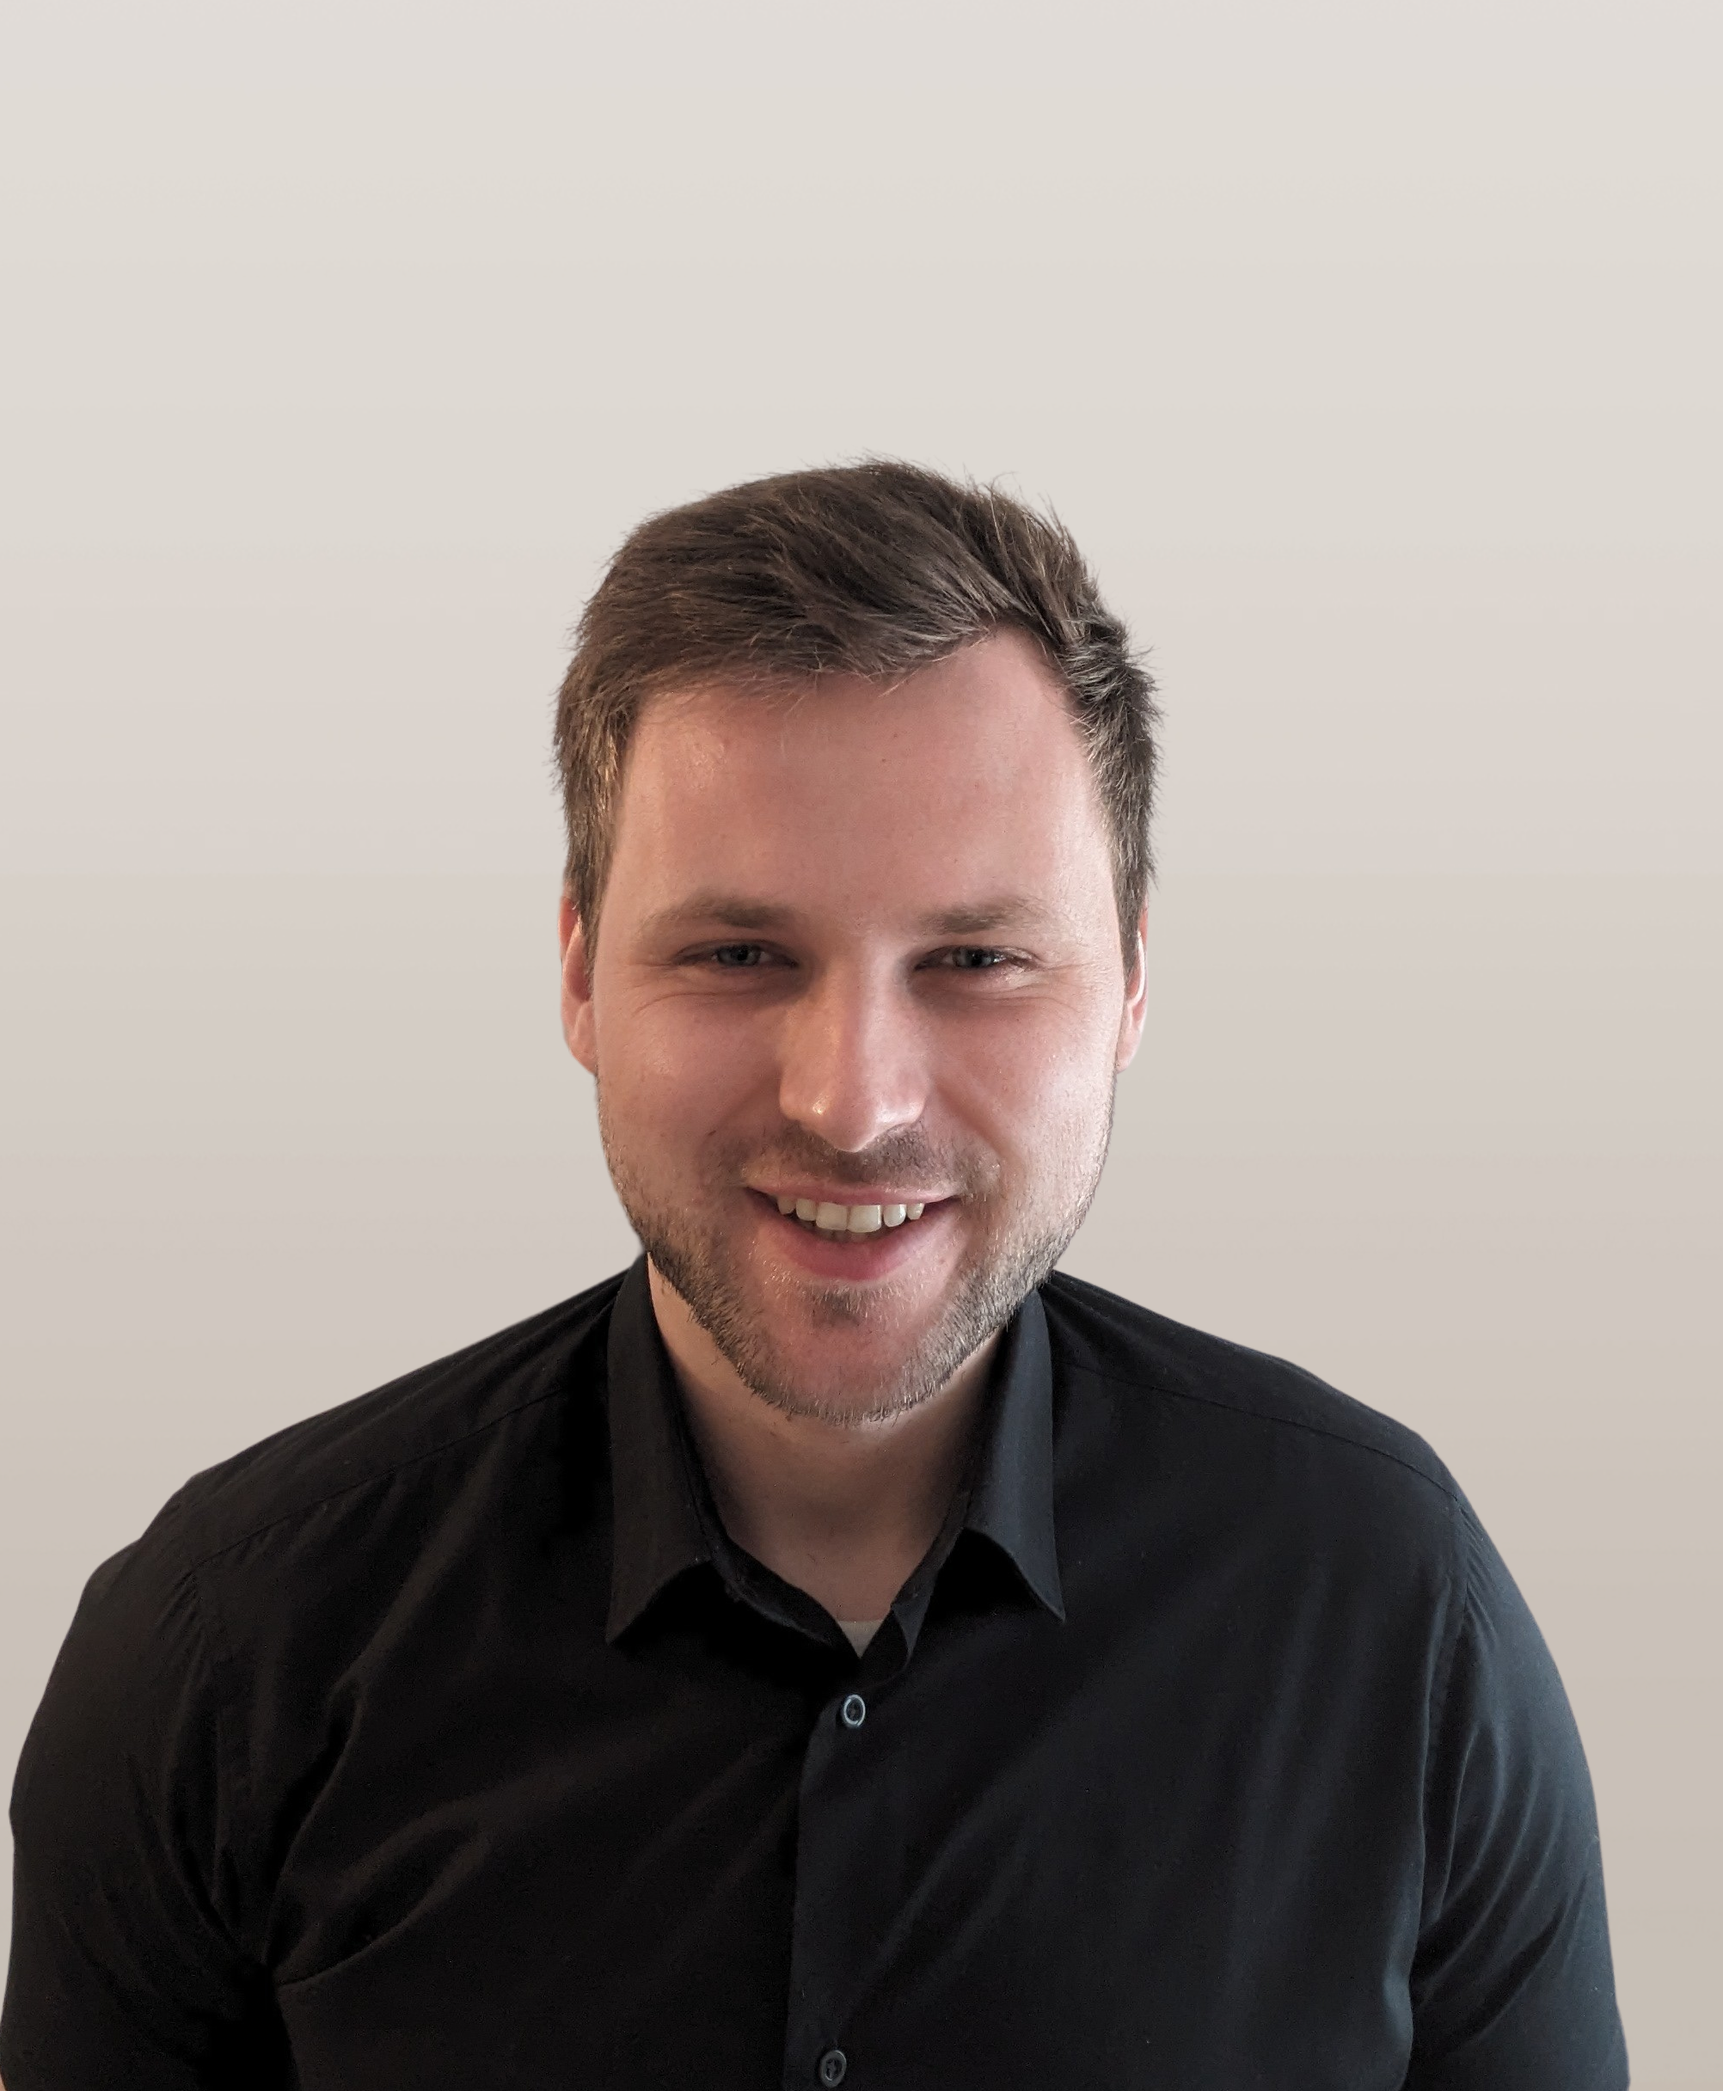
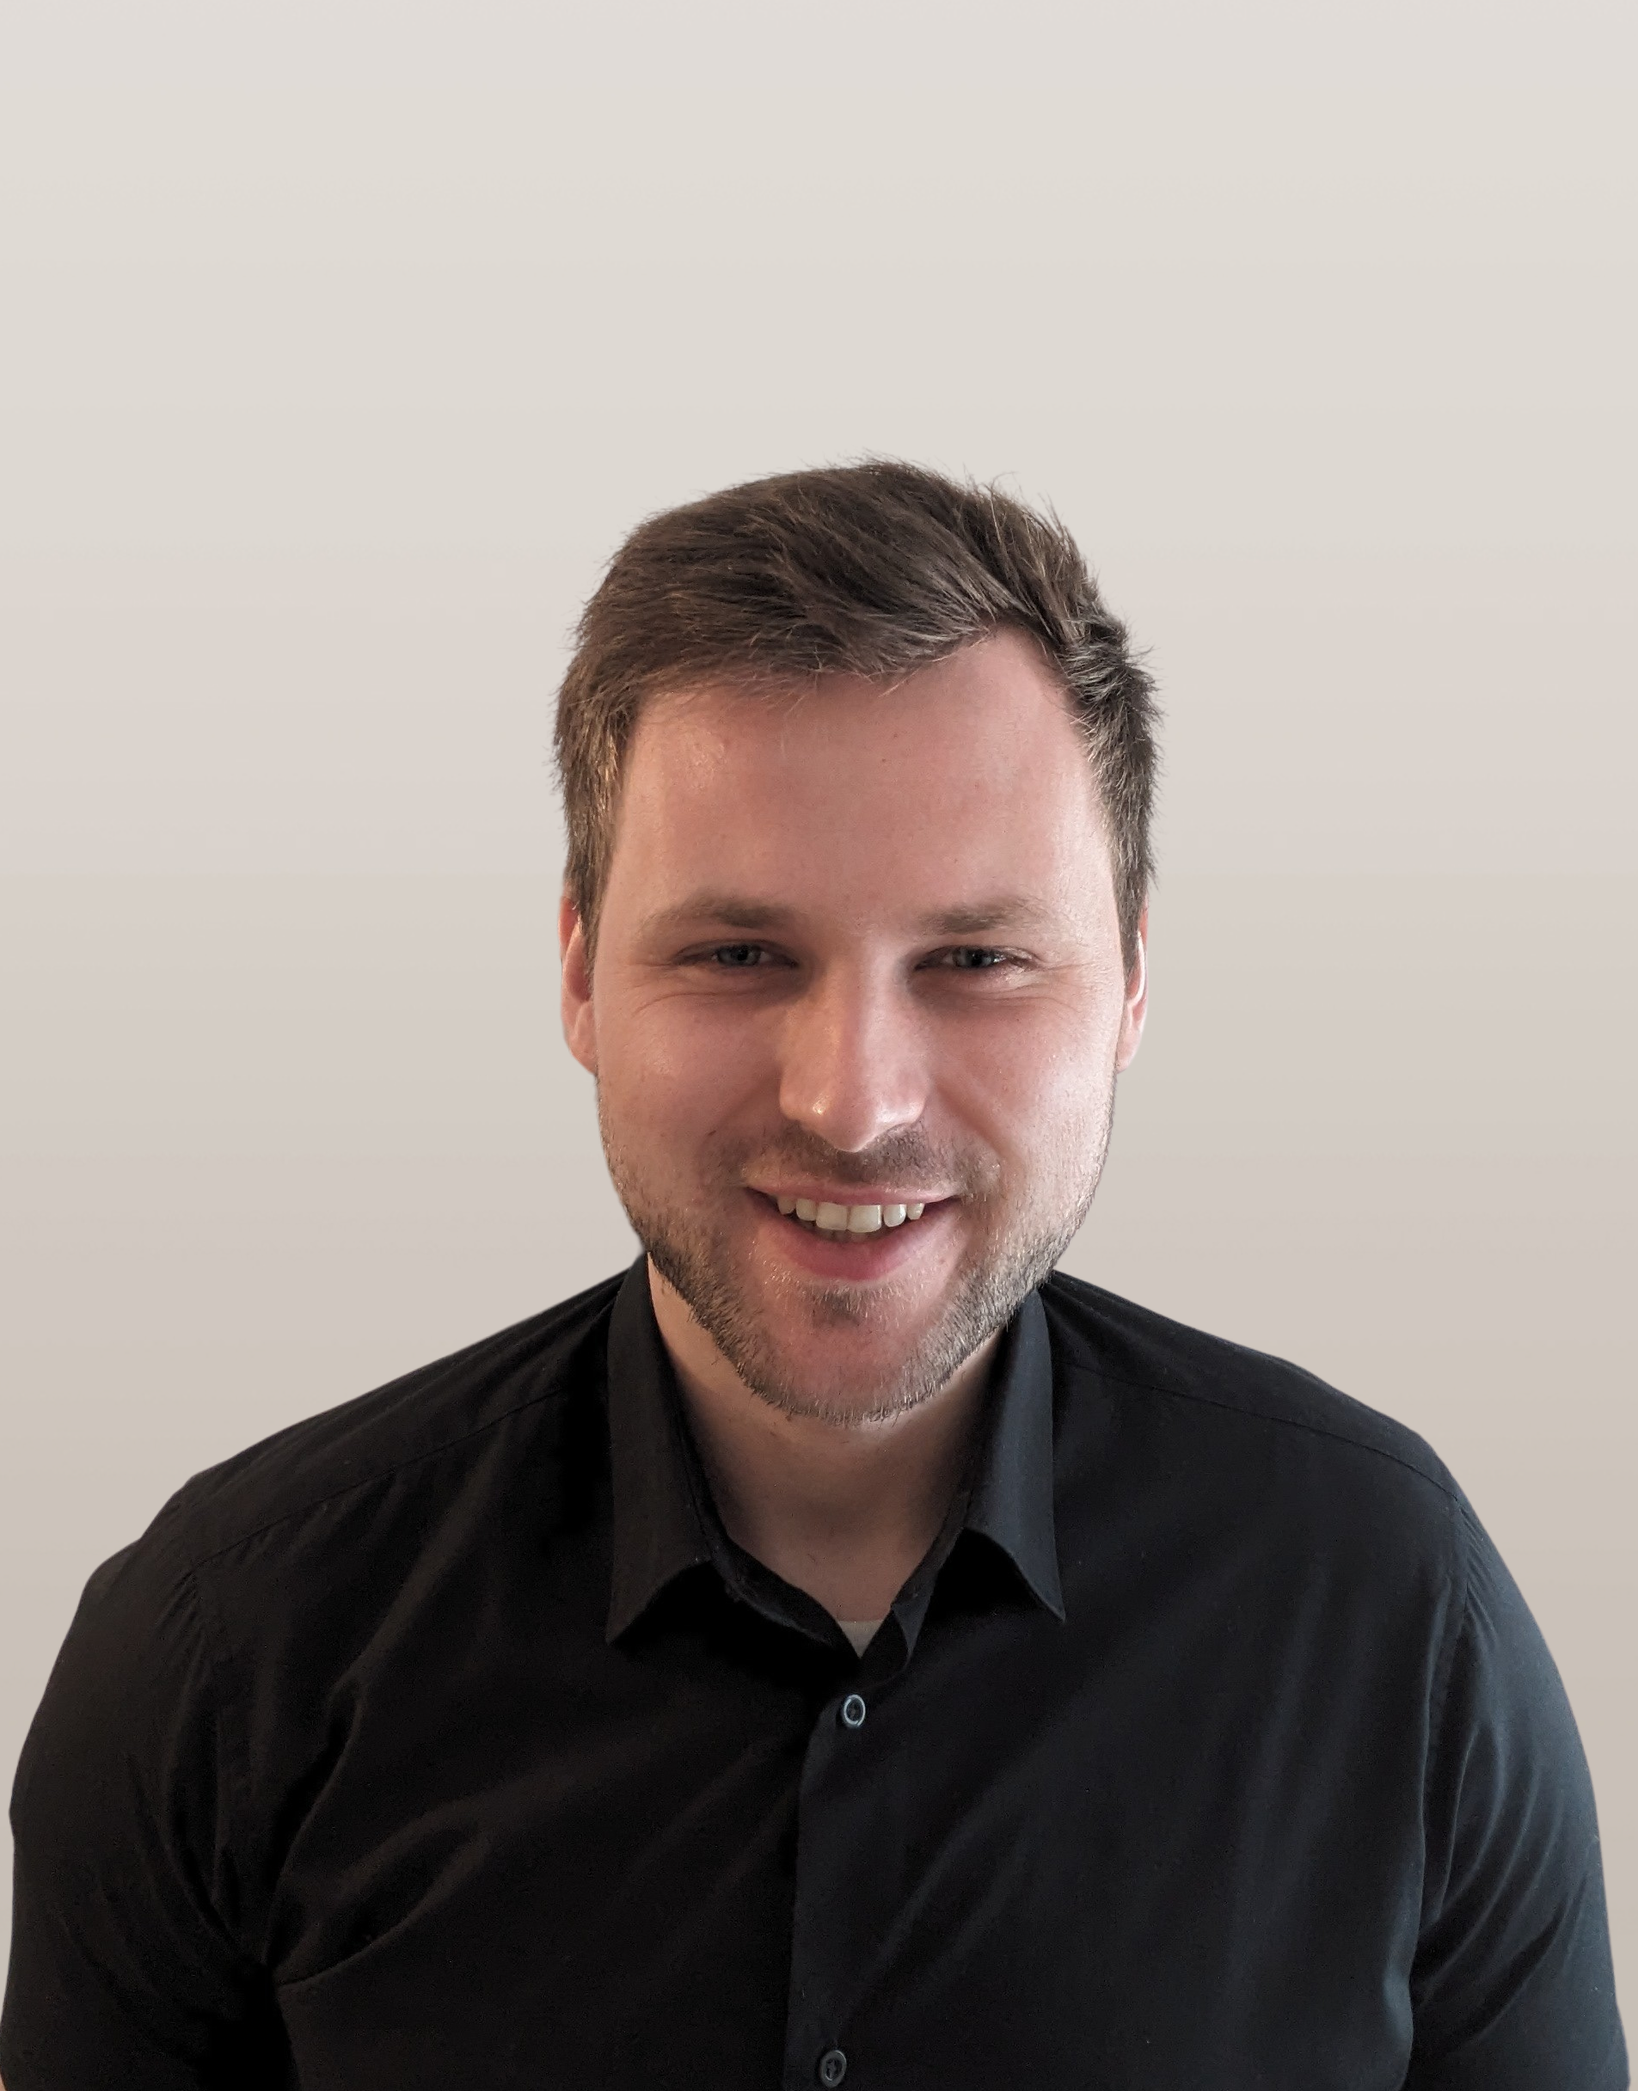
Bel profile added, images resized, papers edited

diff --git a/index.html b/index.html
@@ -385,11 +385,22 @@
     </div>
 
     <div class="column large-3 tab-12">
-        <img class="s-about__pic" src="images/avatars/Belen_image.jpg" alt="">
+        <img class="s-about__pic" src="images/avatars/Bel.jpg" alt="">
     </div>
     <div class="column large-9 tab-12 s-about__content">
         <p>
-            <a href = "https://research.manchester.ac.uk/en/persons/belen-lopez-pardo" target="_blank">Belén López Pardo</a> Astrodynamics etc. 
+            <a href = "https://research.manchester.ac.uk/en/persons/belen-lopez-pardo" target="_blank">Belén López Pardo</a> is a postgraduate researcher at the University of Manchester
+             specialising in Astrodynamics and Interplanetary Mission Design. Her research focuses on bridging the gap between high-fidelity
+              physics and computational efficiency by developing novel architectures to evaluate complex environmental perturbations—including
+               third-body dynamics and solar radiation pressure—without the prohibitive overhead of traditional numerical methods. Her work
+                has been presented at premier global venues including the AAS/AIAA Astrodynamics Specialist Conference 2025 and the 75th
+                 International Astronautical Congress (IAC). Belen has successfully translated her theoretical expertise into industrial impact,
+                  notably engineering bespoke geometric solvers for satellite thermal modeling as a consultant for ESR Technology Ltd.
+                   An AFHEA-qualified educator, she has served as a Graduate Teaching Assistant and PASS leader, and has mentored and
+                    led undergraduate projects in the field of aerospace dynamics. Her leadership has been further demonstrated through
+                     her participation in ESA Ladybird Course 2022 and as a lead for the University of Manchester CanSat team. She was awarded
+                      the Royal Aeronautical Society (RAeS) Teddy Fielding Award and won first prize for Best Presentation at the 2023 PGR
+                       Conference, underscoring her commitment to technical excellence and effective scientific communication.
         </p>
         <hr> 
     </div>
@@ -484,32 +495,6 @@
             </div>
             <div class="column large-9 tab-12">
 
-<div class="resume-block">
-
-                    <div class="resume-block__header">
-                        <h4 class="h3">Towards an Environmentally Sustainable Space Future:An Interdisciplinary Approach to Assess Terrestrial and Orbital Interdependencies</h4>
-                        <p class="resume-block__header-meta">
-                            <span>ASCEND, 2025</span> 
-                            <span class="resume-block__header-date">
-                                July 2025
-                            </span>
-                        </p>
-                        <p>
-                            Manu H. Nair, John Mackintosh, Laurie Waller, Carys Thomas, Nicholas H. Crisp, Kate Smith, Alejandro Gallego-Schmid, Craig Thomas, Rob Bellamy, Ciara McGrath
-                            <br>
-                            Available: <a href=https://doi.org/10.2514/6.2025-4009>https://doi.org/10.2514/6.2025-4009</a>
-                        </p>
-                    </div>
-                </div> <!-- end resume-block -->
-
-
-
-
-
-
-
-
-
 
 
 
@@ -522,7 +507,7 @@
         <p class="resume-block__header-meta">
             <span>Advances in Space Research</span> 
             <span class="resume-block__header-date">
-                Jan 2026
+                March 2026
             </span>
         </p>
         <p>
@@ -543,7 +528,29 @@
 
 
 				
+<div class="resume-block">
 
+    <div class="resume-block__header">
+        <h4 class="h3">
+            Mission concept for SURROUND: Operational space weather detection and tracking using small spacecraft
+        </h4>
+        <p class="resume-block__header-meta">
+            <span>Acta Astronautica</span> 
+            <span class="resume-block__header-date">
+                April 2026
+            </span>
+        </p>
+        <p>
+            Alejandro Macario-Rojas, Dale M. Weigt, L. Alberto Cañizares, Shane A. Maloney, Sophie A. Murray, Peter T. Gallagher, Nicholas H. Crisp, Ciara N. McGrath
+            <br>
+            Available:
+            <a href="https://doi.org/10.1016/j.actaastro.2025.12.055">
+                https://doi.org/10.1016/j.actaastro.2025.12.055
+            </a>
+        </p>
+    </div>
+
+</div> <!-- end resume-block -->
 
 
 
@@ -740,7 +747,7 @@
 
 
 
-
+<!---
 <div class="resume-block">
 
                     <div class="resume-block__header">
@@ -757,7 +764,8 @@
                             Available: <a href=https://doi.org/10.33552/OJRAT.2024.02.000539>https://doi.org/10.33552/OJRAT.2024.02.000539></a>
                         </p>
                     </div>
-                </div> <!-- end resume-block -->
+                </div>--> <!-- end resume-block -->
+                
 
 
 
@@ -794,7 +802,7 @@
 
 
 
-
+<!--
 <div class="resume-block">
 
 		<div class="resume-block__header">
@@ -811,7 +819,7 @@
                             Available: <a href=https://research.manchester.ac.uk/en/publications/from-launch-to-business-insight-developing-a-framework-to-assess-> https://research.manchester.ac.uk/en/publications/ </a>
                         </p>
                     </div>
-                </div> <!-- end resume-block -->
+                </div>--> <!-- end resume-block -->
 
 
 
@@ -822,7 +830,7 @@
 
 
 
-
+<!--
                 <div class="resume-block">
 
                     <div class="resume-block__header">
@@ -841,10 +849,10 @@
                     </div>
 
 
-                </div> <!-- end resume-block -->
+                </div> --> <!-- end resume-block -->
 
 
-
+<!--
     <div class="resume-block">
     
                     <div class="resume-block__header">
@@ -863,7 +871,7 @@
                     Available: <a href="https://doi.org/10.3390/rs12244100">https://doi.org/10.3390/rs12244100</a>
                     </p>
     
-                </div> <!-- end resume-block -->
+                </div> --> <!-- end resume-block -->
    
 
 
